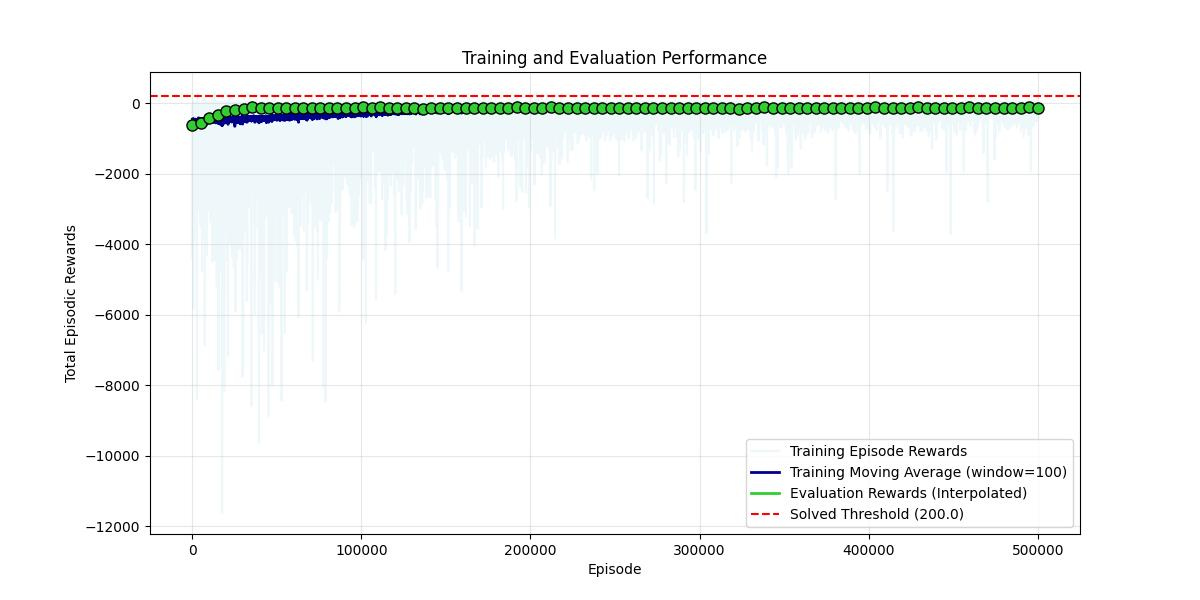
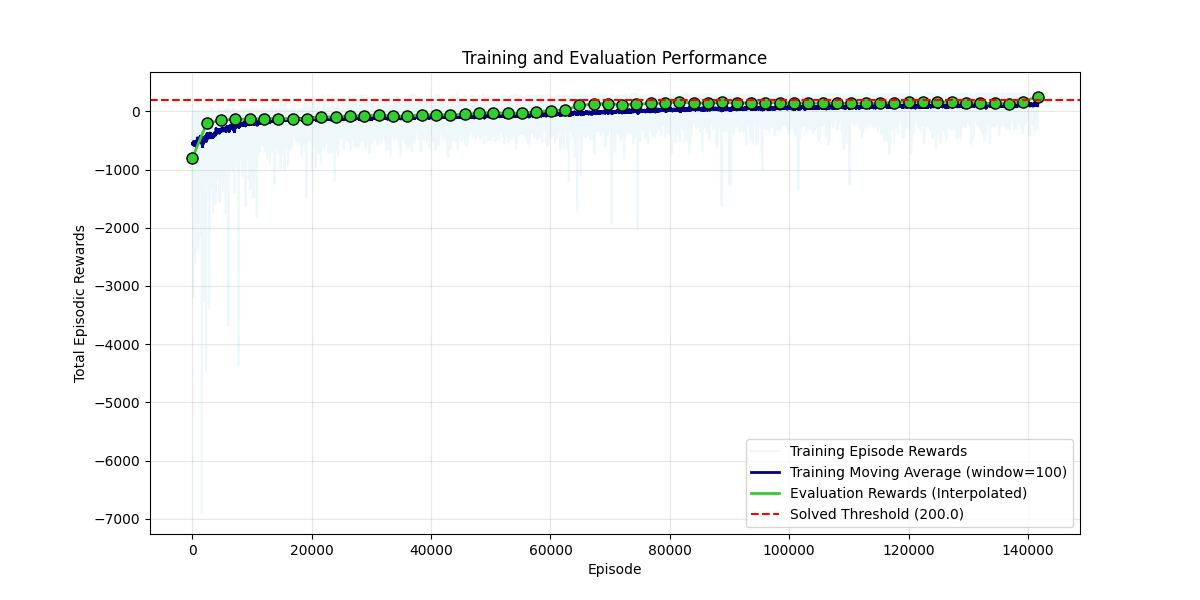
ES new results

diff --git a/Lesson-1/ES/config/ES_CONFIG.py b/Lesson-1/ES/config/ES_CONFIG.py
@@ -3,7 +3,7 @@ ES_CONFIG = {
     "population_size": 24,
     "noise_std": 0.1,
     "hidden_dim": 128,
-    "learning_rate": 3e-4,
+    "learning_rate": 1e-3,
     "use_vbn": False,
     "vbn_batch_size": 128,
     "l2_coeff": 1e-3,
